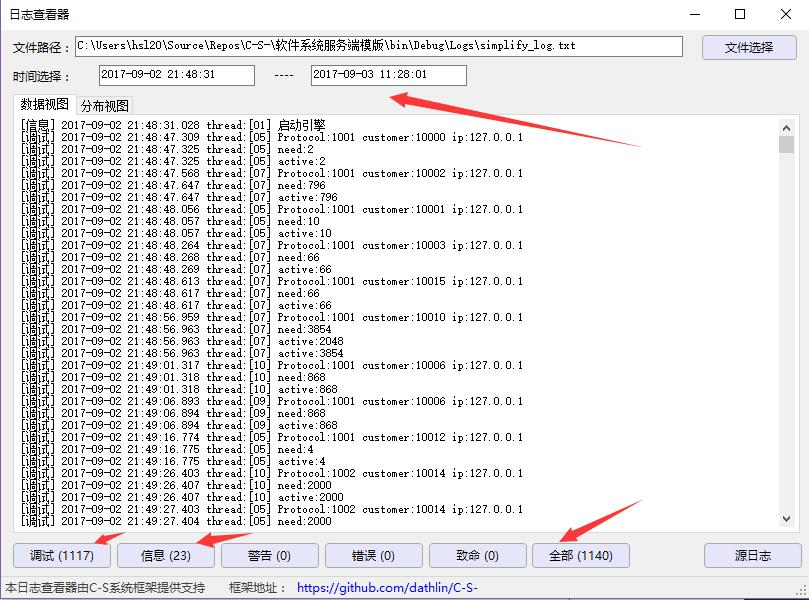
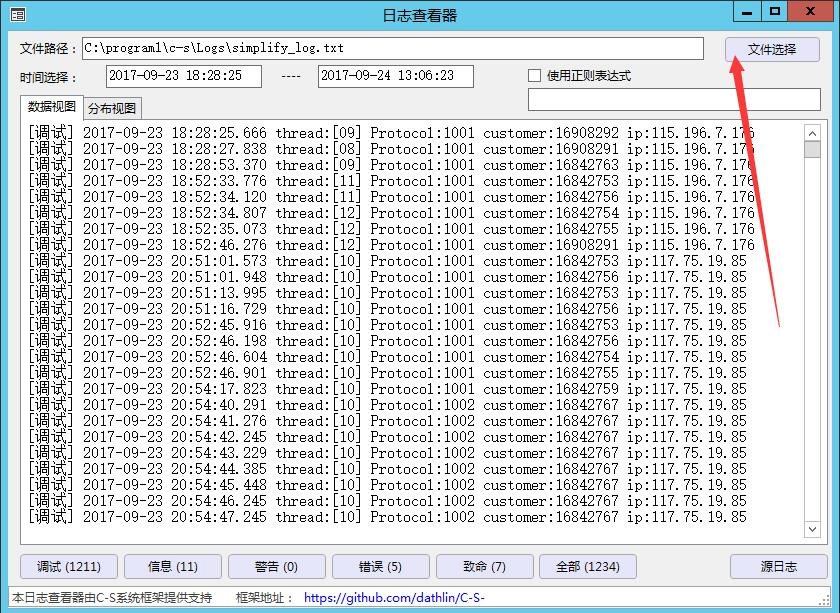
日志组件更新说明和截图，v1.4.7

diff --git a/files/LogReadme.md b/files/LogReadme.md
@@ -3,13 +3,13 @@
 ## Summary
 本组件提供了一个日志功能，实现了常用的3中日志模式：
 <ul>
-<li>单日志文件模式，日志始终都向该文件写入，需要程序中自行清除或手动清空，不然文件会很大。</li>
+<li>单日志文件模式，日志始终都向该文件写入，需要程序中自行清除或手动编写代码清空，不然文件会很大。</li>
 <li>根据文件大小存储的多文件模式，一个日志文件写入达到某个数值时，创建新文件写入。</li>
 <li>根据时间日期的多文件模式，每条日志将根据写入的时间日志来判断文件名，比如创建按每天存储的日志。</li>
 </ul>
-我也曾使用过.net中大名鼎鼎的log4net日志组件，一般使用起来确实方便，但是我在诸如实现上述的需求的时候就特别麻烦，而且log4net功能众多，大多数功能并不是我所需要的，我就需要一个实现txt日志的存储方式，简单高效，多种模式即可。于是就自行开发了一个简单高效的日志组件，并集成到了该通信库中，本日志组件还提供了一个分析控件及窗口，可以对一个长长的日志文件进行分析统计（只对本组件生成的日志有效），本日志组件也提供了分级存储。
+我也曾使用过.net中大名鼎鼎的log4net日志组件，一般使用起来确实方便，但是我在诸如实现上述的需求的时候就特别麻烦，而且log4net功能众多，大多数功能并不是我所需要的，我就需要一个实现txt日志的存储方式，简单高效，多种模式即可。于是就自行开发了一个简单高效的日志组件，并集成到了该通信库中，本日志组件还提供了一个分析控件及窗口，可以对一个长长的日志文件进行分析统计（只对本组件生成的日志有效），快速定位需要查找的日志信息，支持使用正则表达式来筛选，本日志组件也提供了分级存储。
 
-## reference
+## Reference
 日志组件所有的功能类都在**HslCommunication.LogNet**命名空间，所以再使用之前先添加
 <pre>
 <code>
@@ -26,7 +26,7 @@ using HslCommunication.LogNet;
 private ILogNet logNet = new LogNetSingle("D:\\123.txt");
 </code>
 </pre>
-在服务器端通常的做法是日志文件存储在app目录下的Logs文件夹中，所以
+我们通常的做法是日志文件存储在exe程序目录下的Logs文件夹中，无论在服务器端还是客户端都是非常适用的，所以
 <pre>
 <code>
 private ILogNet logNet = new LogNetSingle(Application.StartupPath + "\\Logs\\123.txt");
@@ -66,7 +66,7 @@ logNet.WriteException(null, new IndexOutOfRangeException());
 
 #### 设置等级
 
-描述性文本的前面会再新增一行作为明显的区分。下面再来说明下如何设置日志存储等级。比如我们在开发app的过程中，肯定要经常调试之类的，为了顺利的调试和快速的找到BUG，我们会对系统运行状态，一些关键变量进行输出，但是这些输出来部署运行时是不需要的（当前有些还是必须的，可以方便的追踪问题），如果没有日志分级，我们就需要对部分的日志输出代码进行注释，显示浪费人力物力，在此处我们可以将调试时查看的一些关键信息使用 **DEBUG** 的等级存储，然后在部署时，重新设置日志的存储等级为 **INFO** 等级，那么所有的 **DEBUG** 等级的日志都不会被记录到日志。使用方法：
+描述性文本的前面会再新增一行作为明显的区分。下面再来说明下如何设置日志存储等级。比如我们在开发app的过程中，肯定要经常调试之类的，为了顺利的调试和快速的找到BUG，我们会对系统运行状态，一些关键变量进行输出，但是这些输出来部署运行时是不需要的（当前有些还是必须的，可以方便的追踪问题），如果没有日志分级，我们就需要对部分的日志输出代码进行注释，显然浪费人力物力，在此处我们可以将调试时查看的一些关键信息使用 **DEBUG** 的等级存储，然后在部署时，重新设置日志的存储等级为 **INFO** 等级，那么所有的 **DEBUG** 等级的日志都不会被记录到日志。使用方法：
 
 <pre>
 <code>
@@ -157,7 +157,7 @@ if (logNetSingle != null)
 
 <ul>
 <li>对日志文件中的所有等级日志进行分析，每种等级多少个</li>
-<li>可以同时根据日志等级和时间区段来筛选日志，比如查看某一时间段的<strong>DEBUG</strong>等级日志</li>
+<li>可以同时根据日志等级和时间区段来筛选日志，比如查看某一时间段的 <strong>DEBUG</strong> 等级日志</li>
 <li>可以进行可视化分析，查看日志数据的时间分布情况</li>
 <li>在可视化的界面，如果某个区间段的某日数量特别高，鼠标移动上去后还可以自动跳转</li>
 </ul>
